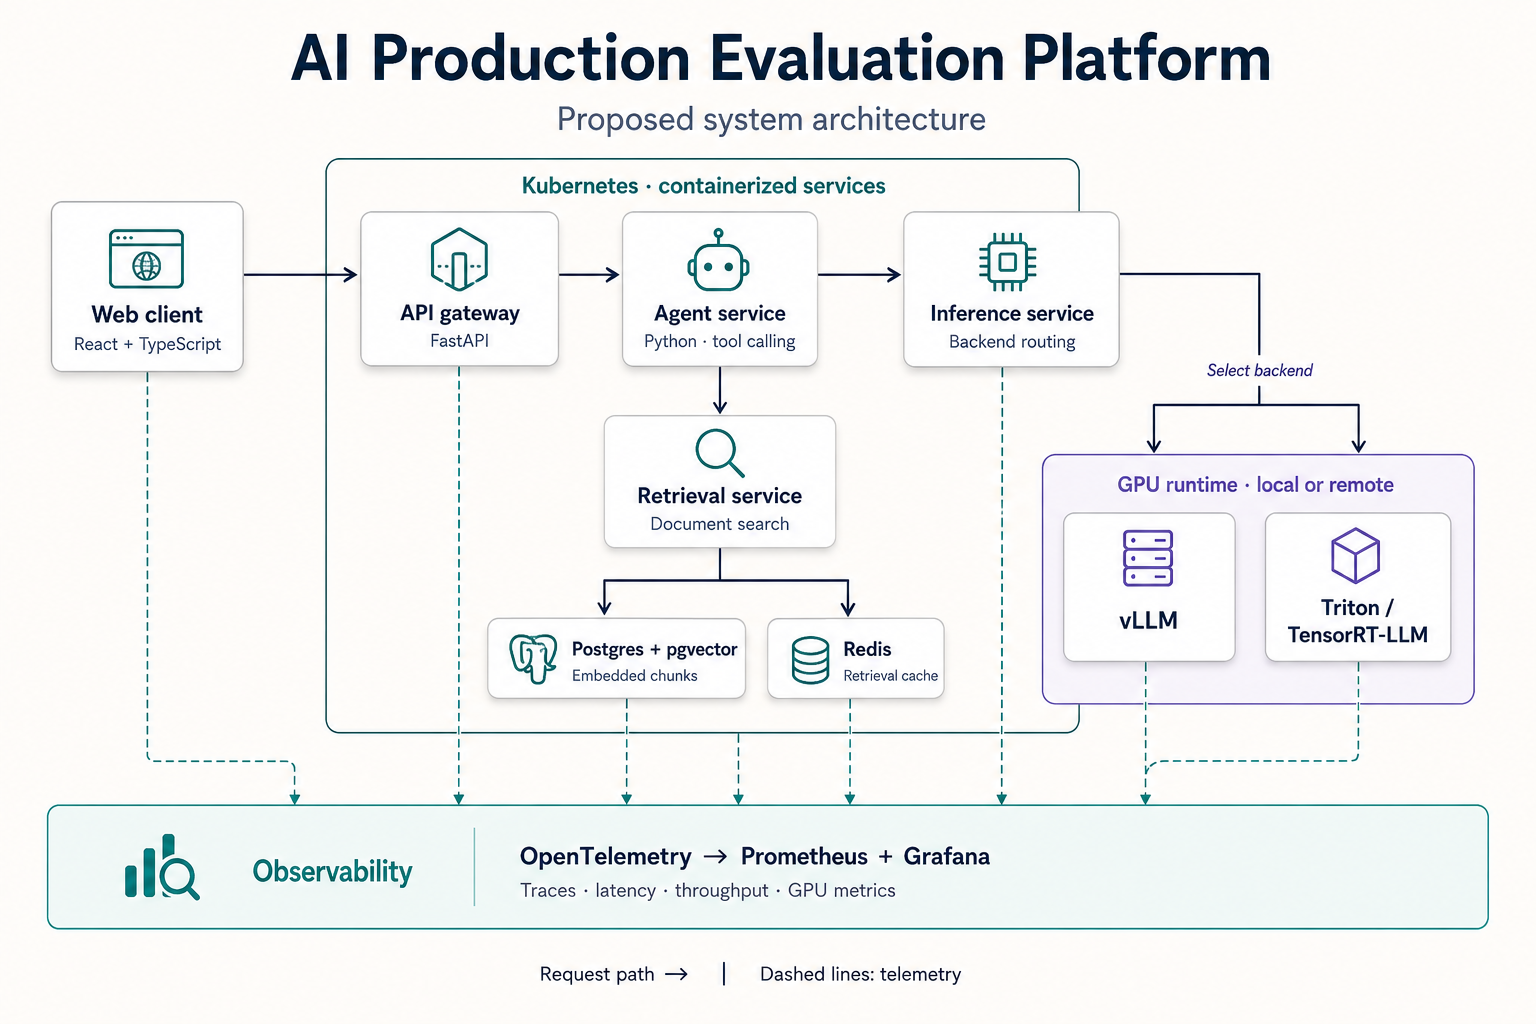
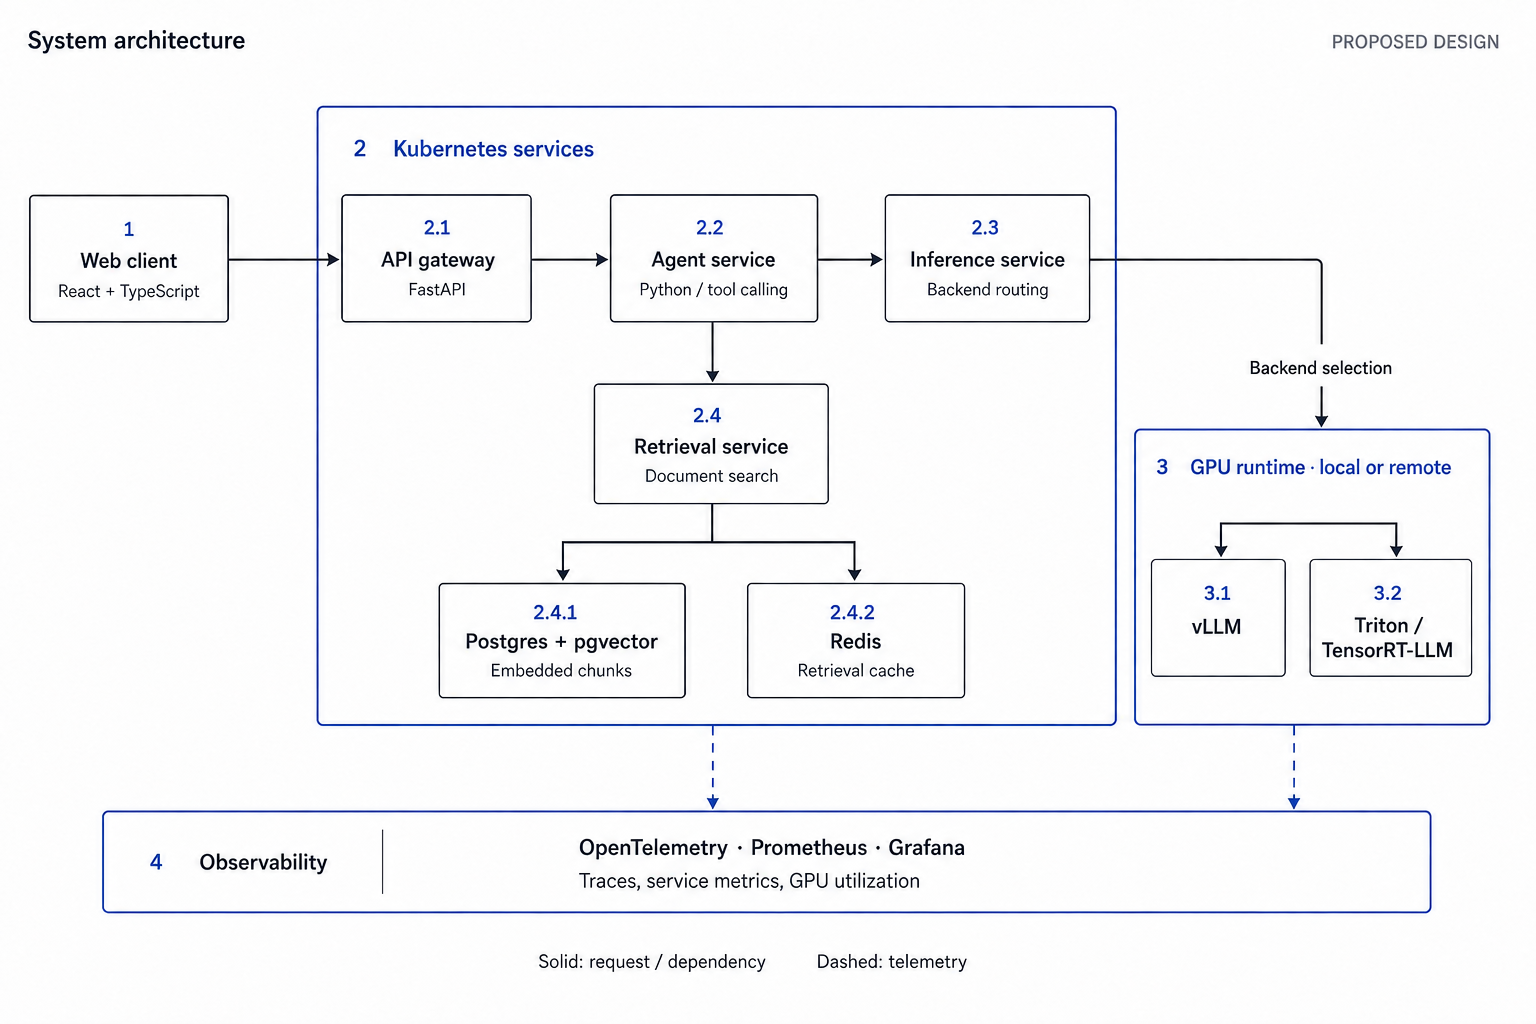
Reframe README description and update architecture diagrams

diff --git a/README.md b/README.md
@@ -1,6 +1,6 @@
 # AI Production Evaluation Platform
 
-A cloud-native, production-style **agentic RAG system** designed to exercise the same skills required for NVIDIA's *Systems Software Engineer — AI and Cloud* role: microservices, Kubernetes, LLM inference, RAG, API design, benchmarking, observability, and technical evaluation.
+A **cloud-native AI system** that benchmarks and monitors its own performance, then uses an agentic RAG interface to let engineers investigate performance results, identify bottlenecks, and compare architectural configurations using natural-language questions.
 
 ## Architecture
 
